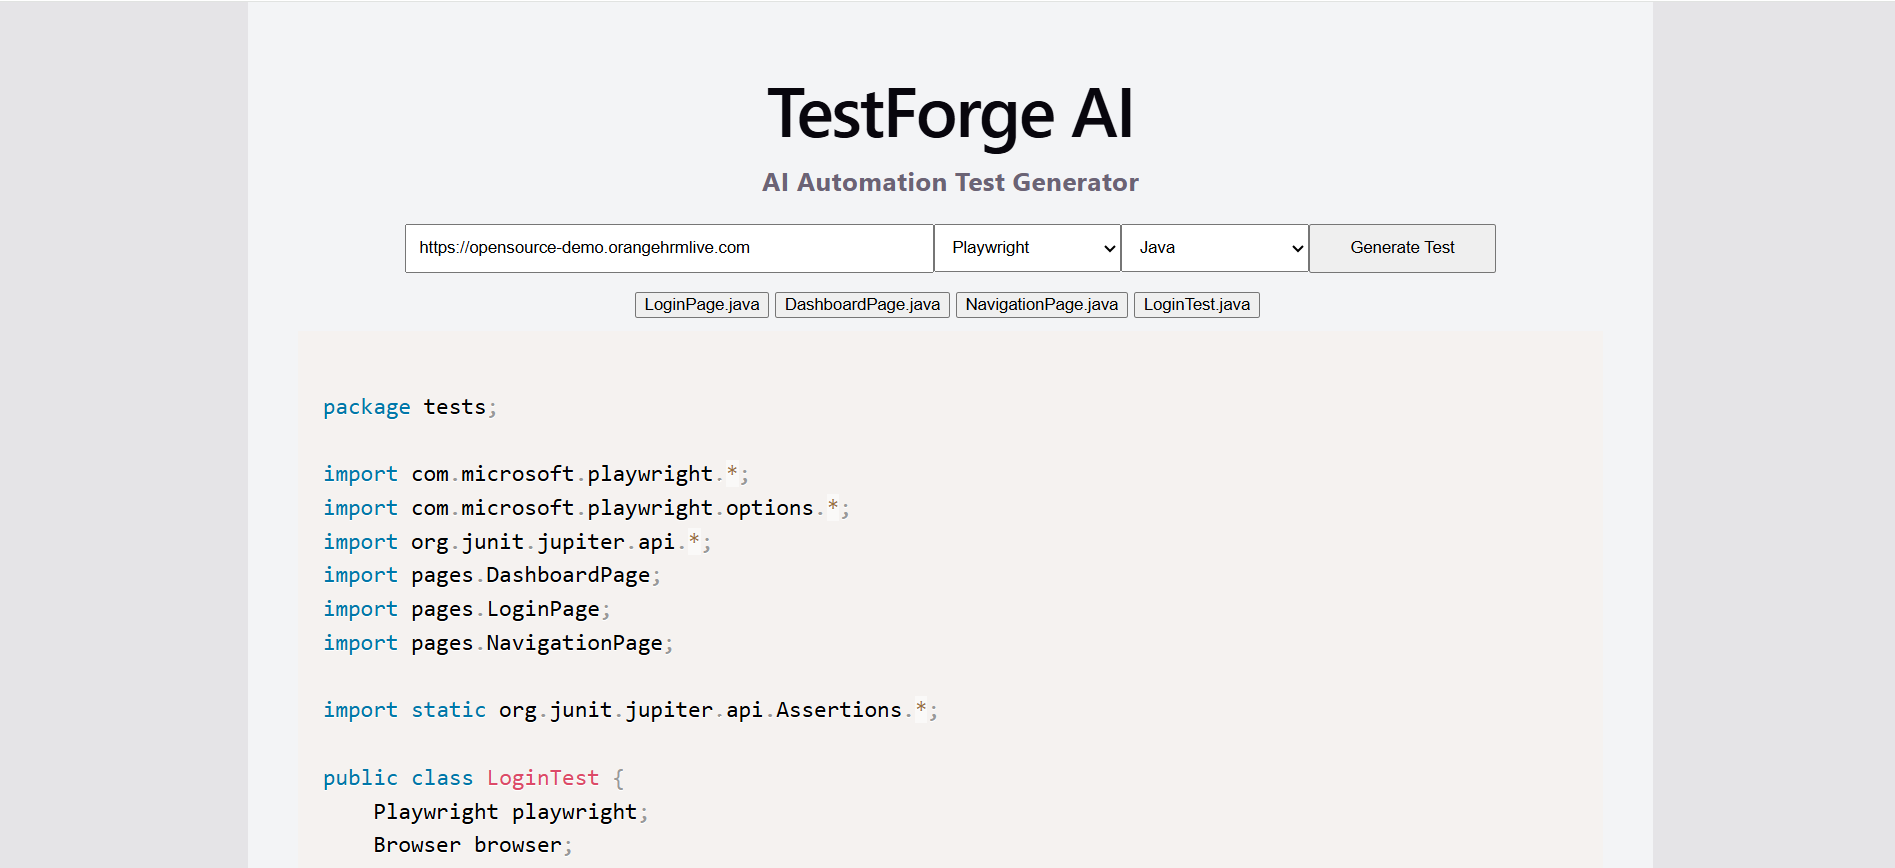
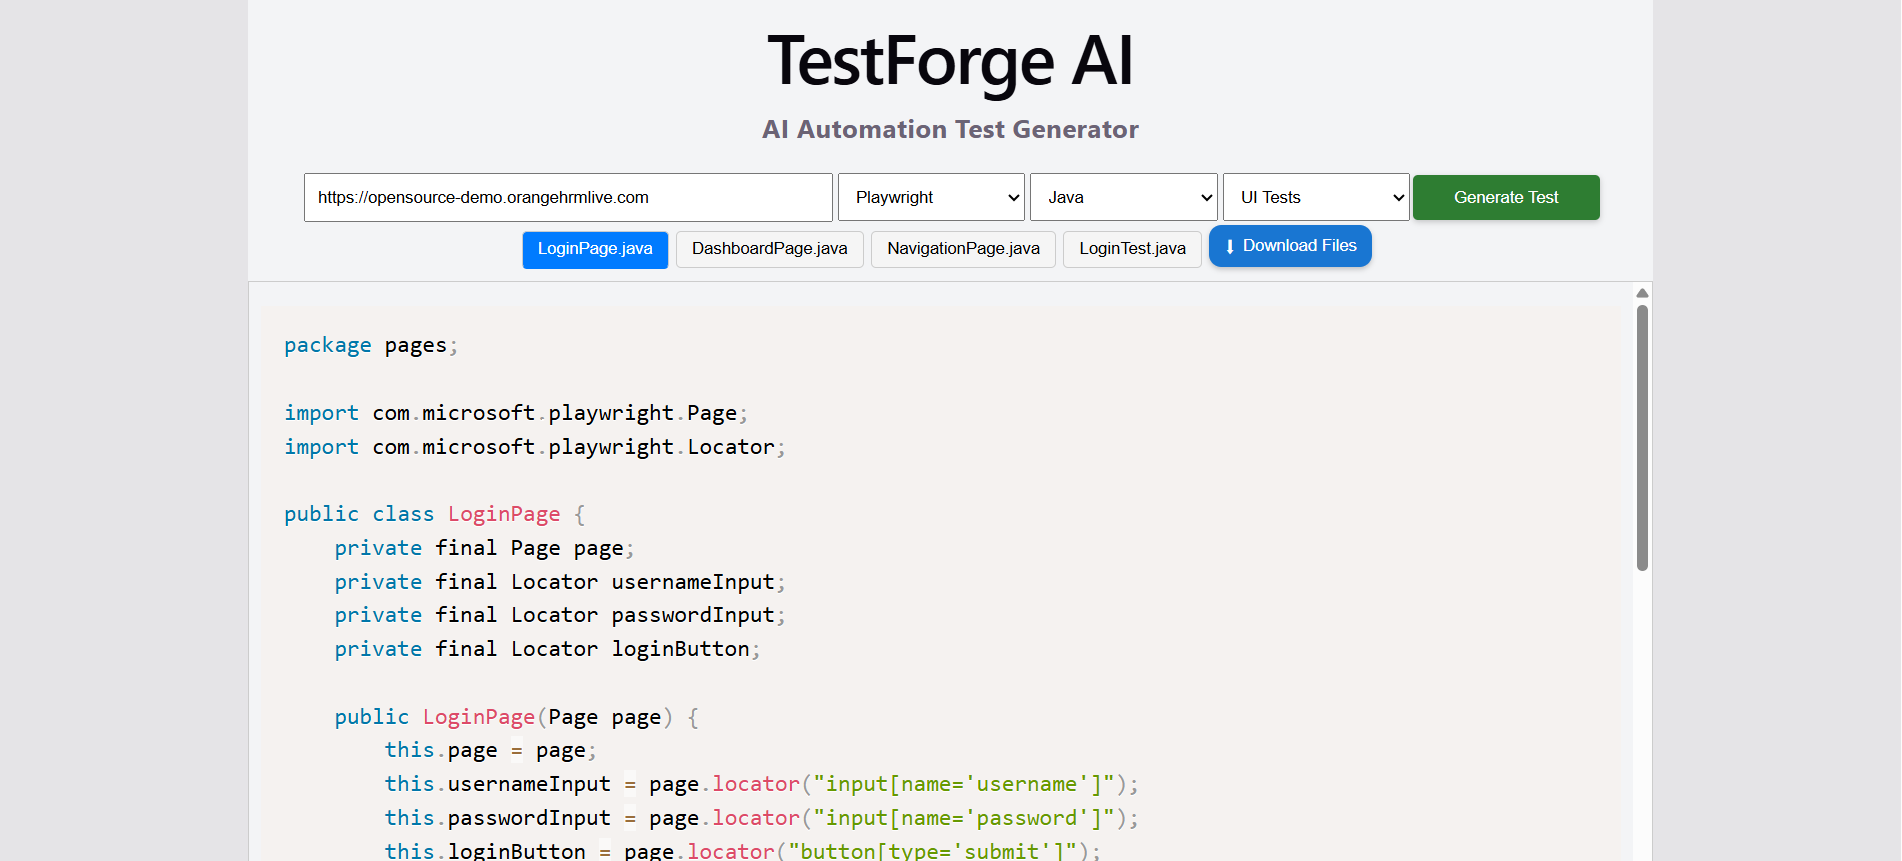
Update to README and styling changes

diff --git a/frontend/src/components/CodeViewer.jsx b/frontend/src/components/CodeViewer.jsx
@@ -63,7 +63,7 @@ export default function CodeViewer({ files }) {
 
             <div
                 style={{
-                    maxHeight: "500px",
+                    maxHeight: "450px",
                     overflow: "auto",
                     border: "1px solid #ccc",
                     padding: "10px"

diff --git a/README.md b/README.md
@@ -43,11 +43,12 @@ Example interface:
 
 # Demo
 
-User enters a URL: https://opensource-demo.orangehrmlive.com
+User:
 
-User selects an automation tool: Playwright
-
-User selects a programming language: Java
+* Enters a URL: https://opensource-demo.orangehrmlive.com
+* Selects an automation tool: Playwright
+* Selects a programming language: Java
+* Selects the type of tests to generate
 
 TestForge AI:
 
@@ -136,12 +137,13 @@ The backend then:
 # Project Structure
 
 ```
-testforge-ai
+testforge-ai 
 │
 ├── backend
 │   ├── src
 │   │   ├── controllers
-│   │   │   └── testController.js
+│   │   │   ├── testController.js
+│   │   │   └── fileDownloadController.js   <-- NEW
 │   │   │
 │   │   ├── routes
 │   │   │   └── testRoutes.js
@@ -150,8 +152,11 @@ testforge-ai
 │   │   │   ├── aiService.js
 │   │   │   └── scraperService.js
 │   │   │
-│   │   └── prompts
-│   │       └── playwrightPrompt.js
+│   │   ├── prompts
+│   │   │   └── playwrightPrompt.js
+│   │   │
+│   │   └── utils
+│   │       └── (optional future helpers)
 │   │
 │   └── generated-tests
 │
@@ -161,8 +166,12 @@ testforge-ai
 │   │   │   ├── UrlInput.jsx
 │   │   │   └── CodeViewer.jsx
 │   │   │
-│   │   └── services
-│   │       └── api.js
+│   │   ├── services
+│   │   │   └── api.js
+│   │   │
+│   │   └── utils
+│   │       ├── automationConfig.json   <-- NEW (tools + languages)
+│   │       └── testTypes.js            <-- NEW (UI/API/Performance)
 │   │
 │   └── index.html
 │
